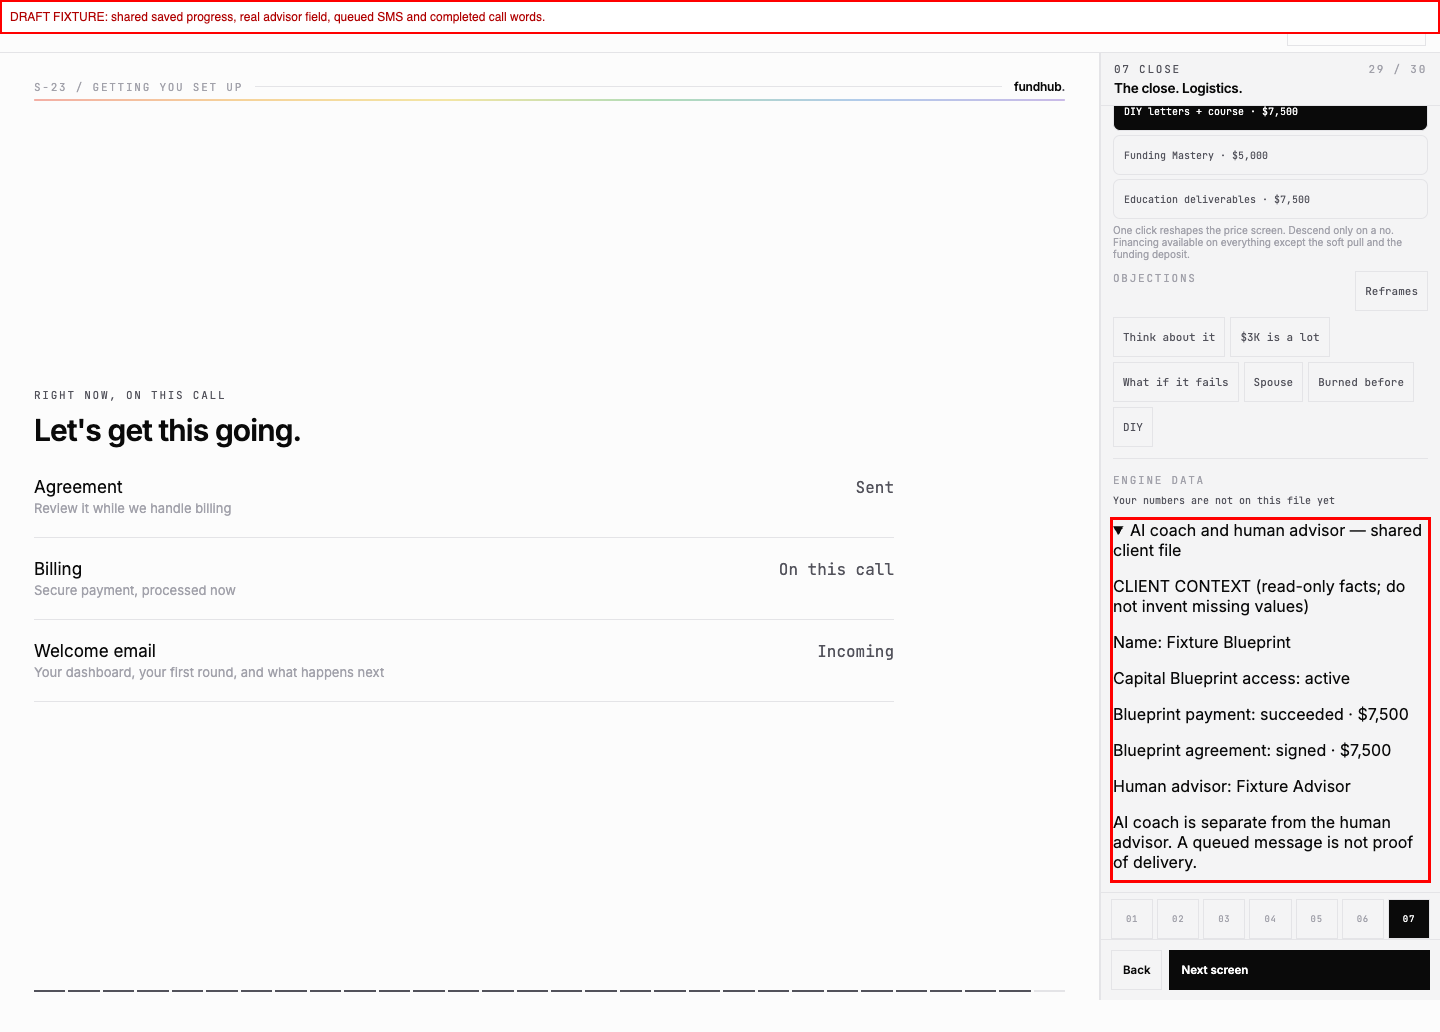
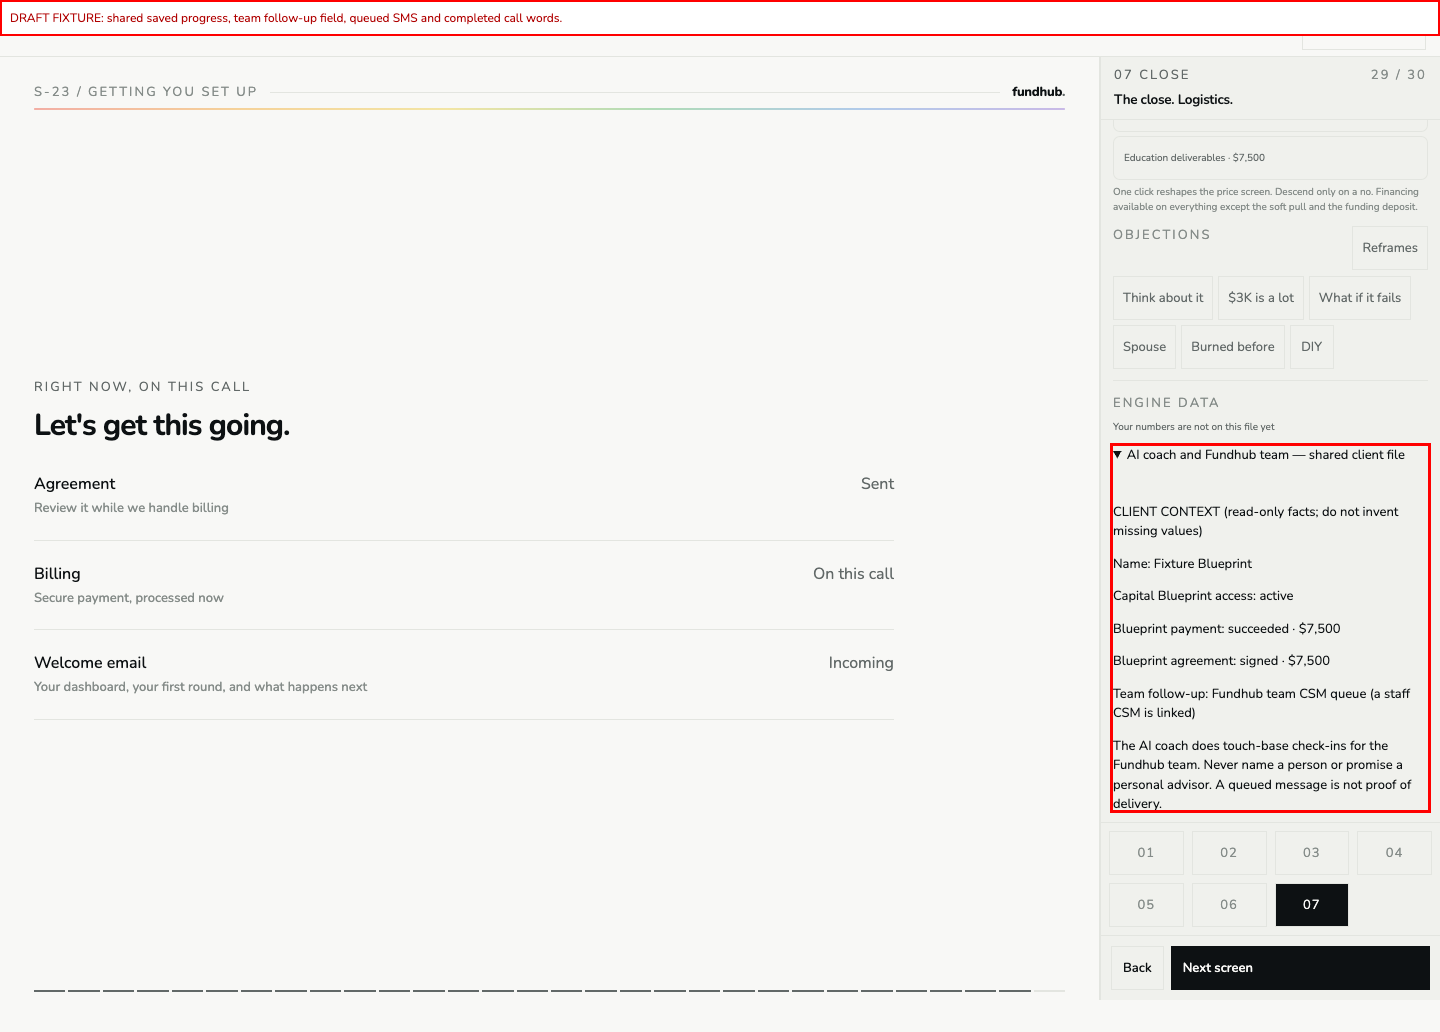
Staff shared-file panel: AI coach and Fundhub team
The panel and its screen proof still named a human advisor after the
context line became the Fundhub team CSM queue (owner-set 2026-10-20).

diff --git a/public/app/present.js b/public/app/present.js
@@ -198,7 +198,7 @@
     /* 06 Blueprint: the rep's own on/off picks (only where they differ from
        what this file says), and the slide they opened the stack from. */
     stackPick: {}, stackFrom: null,
-    sharedContext: null, sharedContextMessage: "Loading saved AI coach and human advisor context…"
+    sharedContext: null, sharedContextMessage: "Loading saved AI coach and Fundhub team context…"
   };
 
   function esc(s) {
@@ -261,7 +261,7 @@
   function sharedContextPanel() {
     var block = state.sharedContextMessage || (state.sharedContext && state.sharedContext.as_prompt_block)
       || "No saved context is on this client file yet.";
-    return '<details data-fh-shared-context><summary>AI coach and human advisor — shared client file</summary>'
+    return '<details data-fh-shared-context><summary>AI coach and Fundhub team — shared client file</summary>'
       + '<div class="fh-context-lines" data-fh-context-lines>'
       + String(block).split("\n").map(function (line) { return '<p class="caption">' + esc(line) + '</p>'; }).join("")
       + '</div></details>';

diff --git a/public/app/closer-call.js b/public/app/closer-call.js
@@ -450,7 +450,7 @@
 
   function loadSaid() {
     if (!window.FHData || !clientId) return;
-    paintSharedContext(null, "Loading saved AI coach and human advisor context…");
+    paintSharedContext(null, "Loading saved AI coach and Fundhub team context…");
     FHData.read("agent-context", { client_id: clientId }).then(function (res) {
       var context = res && res.ok && res.data && res.data.context;
       paintSharedContext(context, context ? null : "The shared client file could not be loaded. Reload to try again.");
@@ -470,7 +470,7 @@
       panel = document.createElement("details");
       panel.setAttribute("data-fh-shared-context", "");
       var heading = document.createElement("summary");
-      heading.textContent = "AI coach and human advisor — shared client file";
+      heading.textContent = "AI coach and Fundhub team — shared client file";
       panel.appendChild(heading);
       ctx.appendChild(panel);
     }
